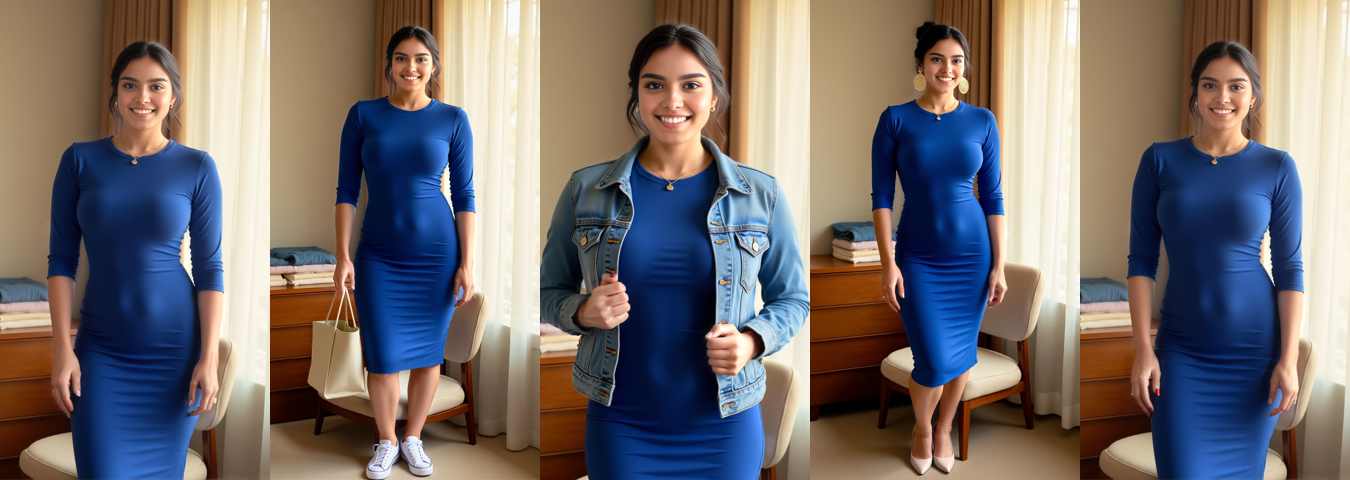
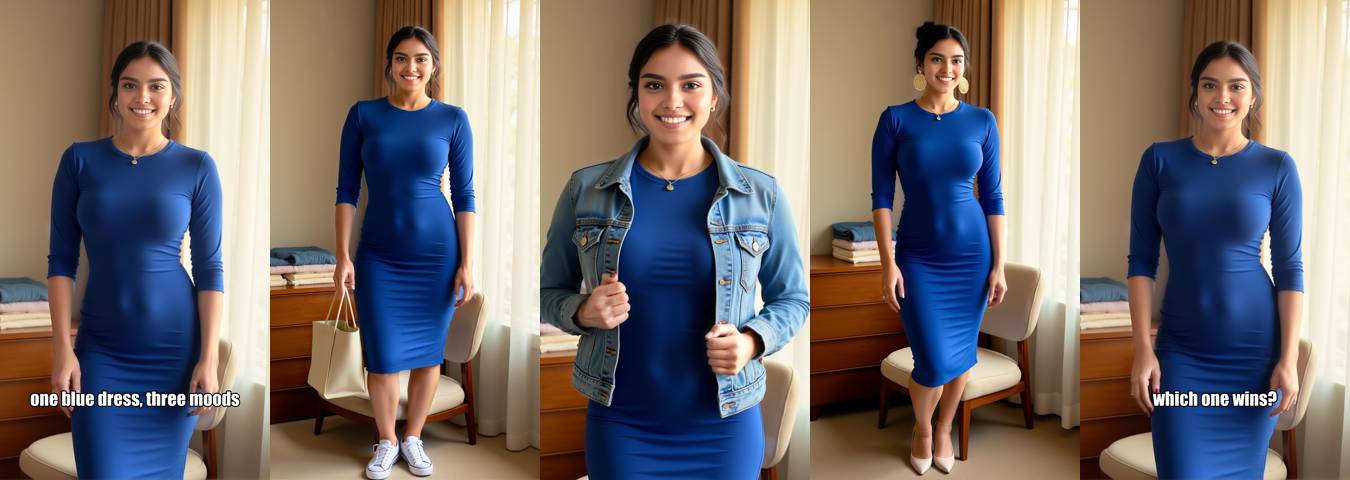
fix: D1 replacement — burn actual on-image hook/recap text onto slide_00/04
User review caught a real spec miss: the PR described slide_00 as "clean
opening hook" and slide_04 as a "recap asking which styling wins," but
neither image actually had on-image text — both were plain portraits. The
approved concept explicitly called for visible on-image copy on both.

New scripts/overlay_slide_text.py burns the text directly onto the still,
reusing reel_from_carousel.py's already-proven face-detection + auto-fit-
font + face-safe-zone logic (same Haar cascade, same shrink-until-it-fits
guarantee, same "never overlap the detected face" placement) rather than
reinventing it for a static image.

slide_00: "one blue dress, three moods" — lands in the lower third (face
box left no room above it), single line at fontsize 72, white text with
black outline for contrast.
slide_04: "which one wins?" — same treatment, same zone.

Both inspected at full resolution and re-checked at a realistic phone/
feed thumbnail width (470px) — text stays legible at both sizes, face
untouched. Placement covers the lower skirt hem, not the dress bodice/
torso where the actual outfit detail is (only the plain lower skirt
area), which I'm noting explicitly per the instruction not to gloss over
placement choices.

Slides 01-03 unchanged. Only faces/dress/composition are exactly as
before on slide_00/04 — text is an addition, nothing else moved or
regenerated.

caption.txt note (not changed in this commit, reporting only): it
contains 3 hashtags beyond the approved caption sentence
[…]

Changed region(s): [[0.0, 0.8125, 0.1867, 0.875], [0.84, 0.8125, 0.9644, 0.875]]

diff --git a/scripts/overlay_slide_text.py b/scripts/overlay_slide_text.py
@@ -1,0 +1,76 @@
+"""Burn on-image hook/recap text onto a single carousel still (PNG), face-safe.
+
+Reuses reel_from_carousel.py's face-detection + auto-fit-font machinery
+(same Haar cascade, same shrink-until-it-fits logic, same face-safe zone
+placement) so a static image gets the identical guarantee already proven
+for the reel pipeline: text never overlaps the detected face, never gets
+clipped mid-sentence.
+
+Renders with PIL directly (not ffmpeg drawtext) since this is a still, not
+a video frame — simpler and avoids ffmpeg's filtergraph string-escaping.
+
+Usage:
+    python scripts/overlay_slide_text.py --input path/to/slide_00.png --output path/to/slide_00.png --text "one blue dress, three moods"
+"""
+from __future__ import annotations
+
+import sys
+from pathlib import Path
+
+import click
+from PIL import Image, ImageDraw, ImageFont
+
+sys.path.insert(0, str(Path(__file__).parent))
+from reel_from_carousel import (  # noqa: E402
+    FACE_MARGIN, LINE_SPACING, MAX_FONT_SIZE, MIN_FONT_SIZE, TEXT_MAX_WIDTH,
+    TEXT_SIDE_MARGIN, _detect_face_box, _face_safe_zone, _fit_hook,
+)
+
+
+@click.command()
+@click.option("--input", "input_path", type=click.Path(exists=True, dir_okay=False, path_type=Path), required=True)
+@click.option("--output", "output_path", type=click.Path(dir_okay=False, path_type=Path), required=True)
+@click.option("--text", required=True, help="Text to burn onto the image.")
+@click.option("--font", default=r"C:\Windows\Fonts\impact.ttf", show_default=True)
+def main(input_path: Path, output_path: Path, text: str, font: str):
+    img = Image.open(input_path).convert("RGB")
+    w, h = img.size
+
+    face_box = _detect_face_box(input_path)
+    zone_y, zone_h, zone_name = _face_safe_zone(face_box, w, h)
+    zone_h = max(zone_h, MIN_FONT_SIZE)
+    click.echo(f"Face box: {face_box or 'not detected'} -> zone: {zone_name} (y={zone_y}, h={zone_h})")
+
+    wrapped, size = _fit_hook(text, font, TEXT_MAX_WIDTH, zone_h)
+    click.echo(f"Fitted at fontsize={size}, {wrapped.count(chr(10)) + 1} line(s)")
+
+    draw = ImageDraw.Draw(img)
+    pil_font = ImageFont.truetype(font, size)
+    lines = wrapped.split("\n")
+    line_h = pil_font.getbbox("Ag")[3] - pil_font.getbbox("Ag")[1]
+    block_h = line_h * len(lines) + LINE_SPACING * (len(lines) - 1)
+
+    if zone_name in ("top", "top (above face)"):
+        y = zone_y
+    else:
+        y = zone_y + (zone_h - block_h) // 2
+
+    border_w = 4
+    for line in lines:
+        line_w = pil_font.getbbox(line)[2]
+        x = (w - line_w) // 2
+        # black outline for contrast, then white fill
+        for dx in range(-border_w, border_w + 1):
+            for dy in range(-border_w, border_w + 1):
+                if dx * dx + dy * dy <= border_w * border_w:
+                    draw.text((x + dx, y + dy), line, font=pil_font, fill="black")
+        draw.text((x, y), line, font=pil_font, fill="white")
+        y += line_h + LINE_SPACING
+
+    output_path.parent.mkdir(parents=True, exist_ok=True)
+    img.save(output_path)
+    click.echo(f"Saved: {output_path}")
+
+
+if __name__ == "__main__":
+    main()
